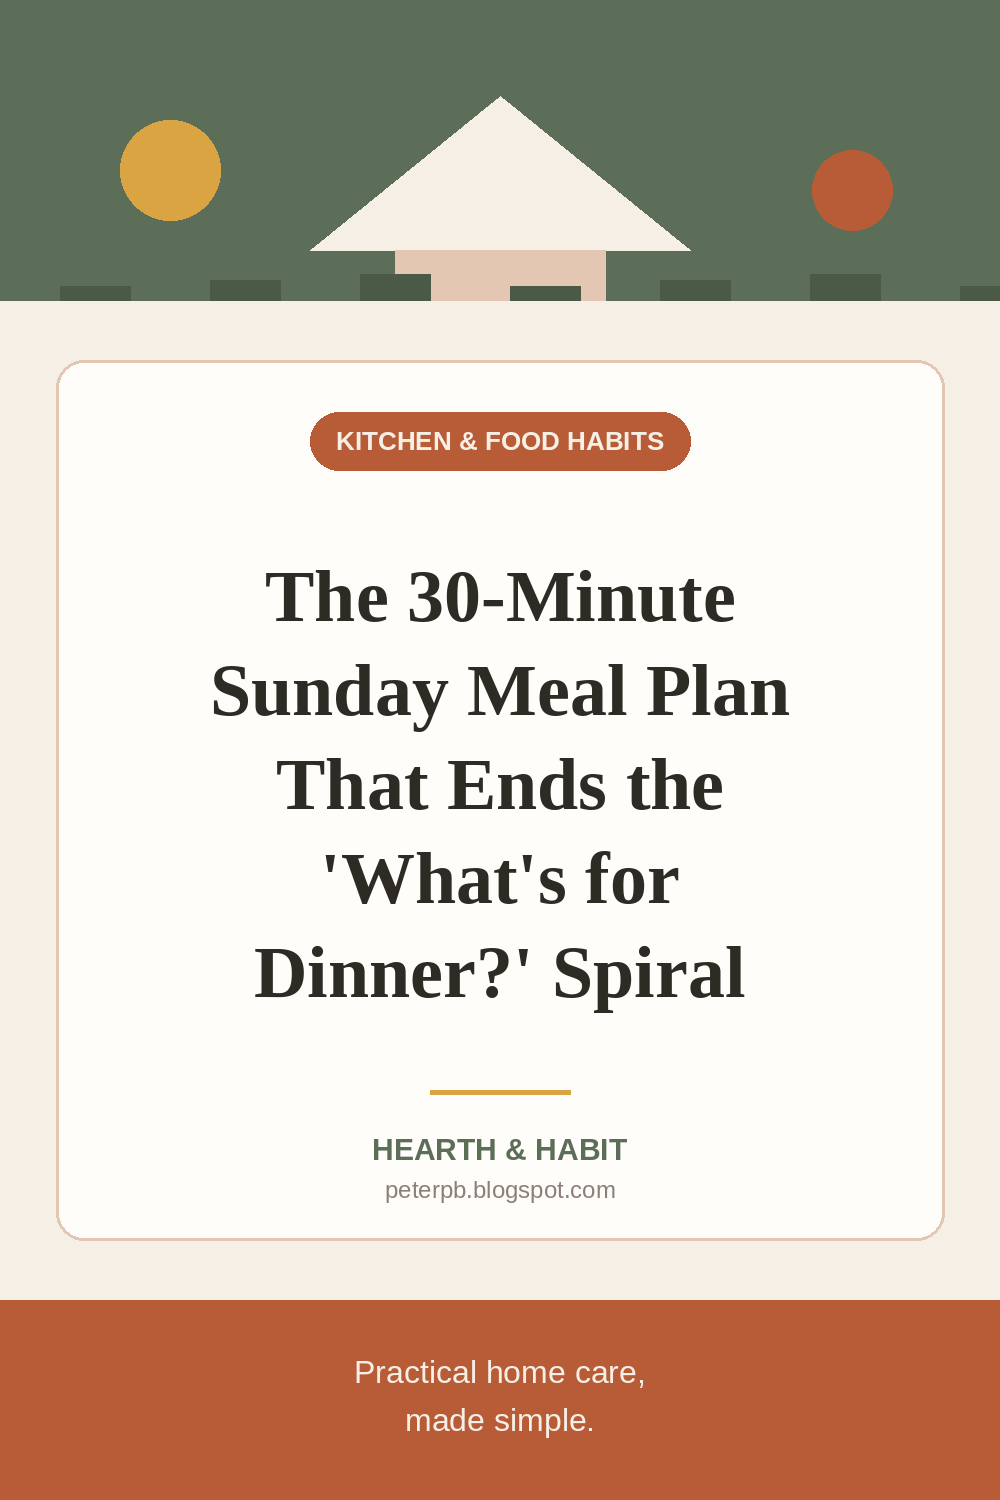
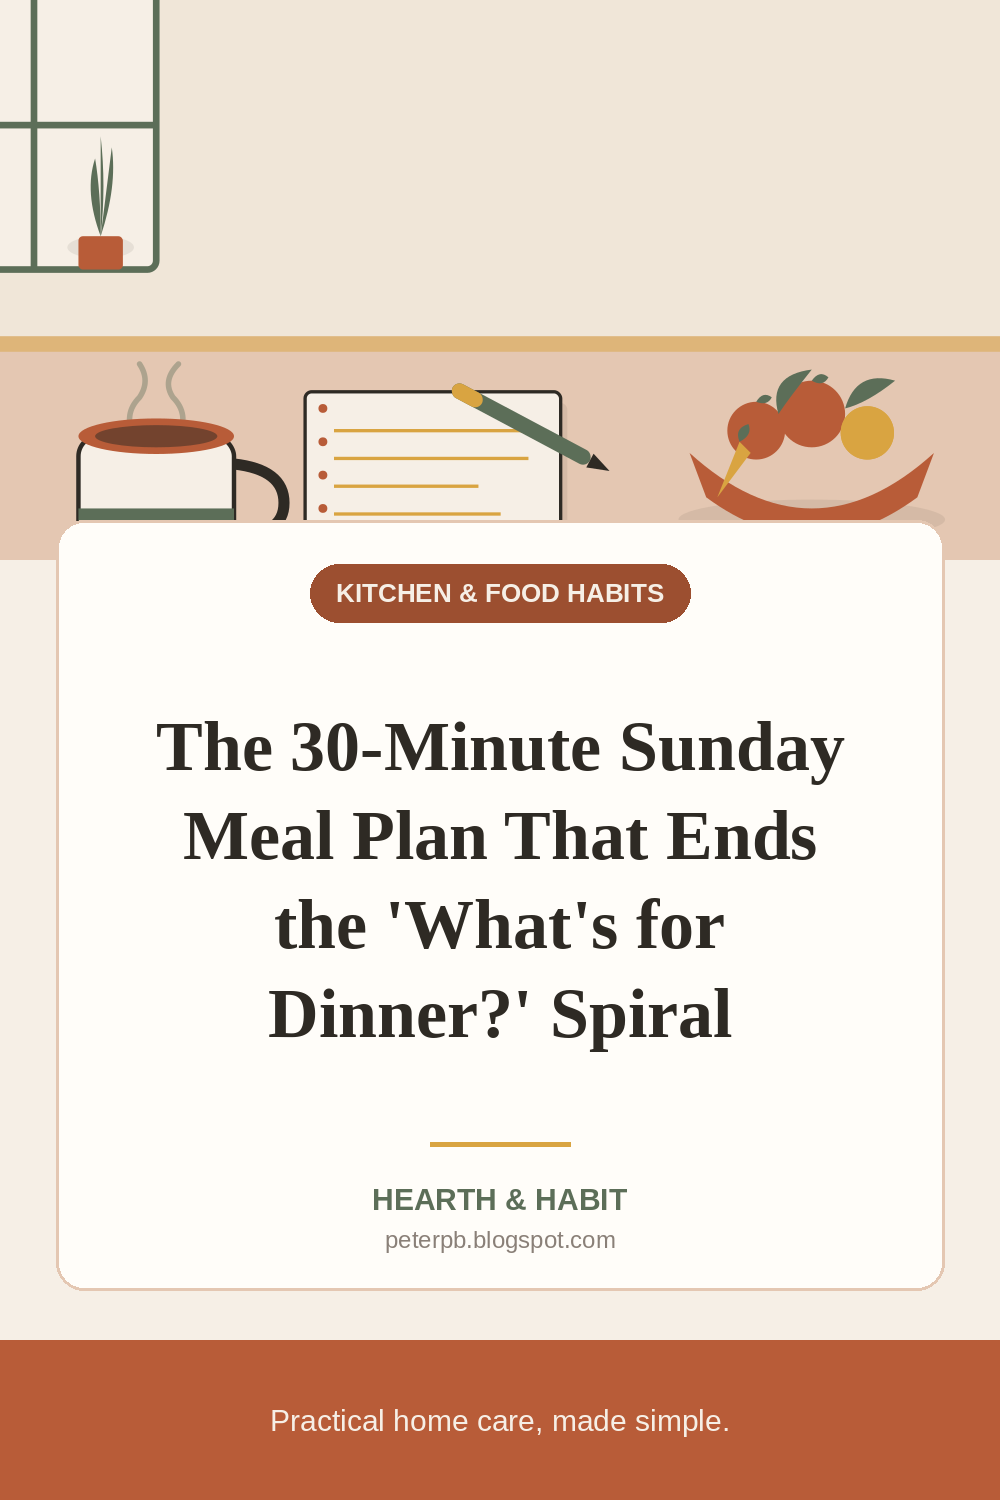
Give every pin its own artwork instead of one shared template
All 17 pins shared an identical geometric background with only the
title changing. Consistent brand elements help, but identical imagery
works against us on Pinterest three ways: the feed favors new unique
images ("fresh pins"), Pinterest's vision models use the artwork to
categorize a pin into related feeds and an abstract house motif says
nothing about mosquitoes or produce storage, and a new account posting
seventeen near-identical images reads as automated.

Each post already has its own Claude-drawn hero illustration, so
rasterize that with CairoSVG into the pin's top band and keep the
title card below. Rendered ~25% taller than the band and cropped with
a downward bias, since these compositions put the subject in the
lower-middle and leave negative space up top — the subject now fills
the thumbnail. Falls back to the old motif if cairo is unavailable or
a hero SVG is missing, so pin generation can't break the pipeline.

Chip color now varies by pillar as a second layer of differentiation.
Verified all 17 render from their own art with no fallbacks.

diff --git a/generator/make_pin.py b/generator/make_pin.py
@@ -21,15 +21,22 @@ Usage:
 from __future__ import annotations
 
 import argparse
+import io
 import textwrap
 from pathlib import Path
 
 import yaml
 from PIL import Image, ImageDraw, ImageFont
 
+try:  # rasterizes the post's hero illustration into the pin
+    import cairosvg
+except Exception:  # missing system cairo — fall back to the drawn motif
+    cairosvg = None
+
 ROOT = Path(__file__).resolve().parents[1]
 POSTS_DIR = ROOT / "content" / "posts"
 PINS_DIR = ROOT / "content" / "pins"
+IMAGES_DIR = ROOT / "content" / "images"
 TOPICS_CONFIG = ROOT / "config" / "topics.yml"
 
 W, H = 1000, 1500
@@ -80,25 +87,74 @@ def fit_title(draw: ImageDraw.ImageDraw, title: str, max_w: int, max_h: int) -> 
     return font, textwrap.wrap(title, width=30)[:7], 44
 
 
+ART_H = 560  # height of the illustration band at the top of the pin
+
+# Chip color per pillar. Identical pins are a Pinterest liability — the feed
+# rewards visually distinct ("fresh") images and its vision models use the
+# artwork to categorize a pin — so the hero illustration below carries the
+# real differentiation and this just reinforces it.
+CHIP_COLORS = {
+    "home-maintenance": TERRACOTTA,
+    "cleaning-organization": SAGE,
+    "energy-savings": "#A8752B",
+    "kitchen-habits": "#9C4F30",
+    "yard-outdoor": "#4A5A47",
+}
+
+
 def draw_motif(d: ImageDraw.ImageDraw) -> None:
-    """Abstract roof/home motif — brand colors, no text, no external assets."""
-    d.rectangle([0, 0, W, 300], fill=SAGE)
-    d.polygon([(500, 96), (690, 250), (310, 250)], fill=CREAM)
-    d.rectangle([395, 250, 605, 300], fill=CLAY)
-    d.ellipse([120, 120, 220, 220], fill=GOLD)
-    d.ellipse([812, 150, 892, 230], fill=TERRACOTTA)
-    for i, x in enumerate(range(60, W, 150)):
-        d.rectangle([x, 286 - (i % 3) * 6, x + 70, 300], fill="#4A5A47")
+    """Fallback art when the post has no hero SVG (or cairo is unavailable):
+    an abstract roof/home motif in brand colors."""
+    d.rectangle([0, 0, W, ART_H], fill=SAGE)
+    d.polygon([(500, 150), (720, 380), (280, 380)], fill=CREAM)
+    d.rectangle([380, 380, 620, 470], fill=CLAY)
+    d.ellipse([110, 170, 230, 290], fill=GOLD)
+    d.ellipse([800, 200, 900, 300], fill=TERRACOTTA)
+    for i, x in enumerate(range(50, W, 150)):
+        d.rectangle([x, 520 - (i % 3) * 10, x + 80, ART_H], fill="#4A5A47")
 
 
-def render_pin(title: str, pillar_name: str, out_path: Path) -> None:
+def hero_band(slug: str) -> Image.Image | None:
+    """The post's own hero SVG, rasterized and cropped to the art band.
+
+    Each post already has a unique Claude-drawn illustration; reusing it here
+    is what makes every pin a distinct image instead of one template with
+    swapped text.
+    """
+    svg = IMAGES_DIR / f"{slug}-hero.svg"
+    if cairosvg is None or not svg.exists():
+        return None
+    try:
+        # Render ~25% taller than the band, then crop back into it. The hero
+        # SVGs carry generous negative space at the top; trimming it lets the
+        # actual subject fill the thumbnail, which is what stops a scroll.
+        png = cairosvg.svg2png(url=str(svg), output_height=int(ART_H * 1.25))
+        art = Image.open(io.BytesIO(png)).convert("RGB")
+    except Exception as e:
+        print(f"  WARN: could not rasterize {svg.name} ({e}); using fallback motif")
+        return None
+    if art.width < W:
+        art = art.resize((W, int(art.height * W / art.width)), Image.LANCZOS)
+    left = max(0, (art.width - W) // 2)
+    # Bias the vertical crop downward: these compositions put the subject in
+    # the lower-middle and sky/wall in the upper third.
+    top = int(max(0, art.height - ART_H) * 0.62)
+    return art.crop((left, top, left + W, top + ART_H))
+
+
+def render_pin(title: str, pillar_name: str, out_path: Path,
+               slug: str = "", pillar_slug: str = "") -> None:
     img = Image.new("RGB", (W, H), CREAM)
     d = ImageDraw.Draw(img)
 
-    draw_motif(d)
+    art = hero_band(slug) if slug else None
+    if art is not None:
+        img.paste(art, (0, 0))
+    else:
+        draw_motif(d)
 
-    # title card
-    card_top, card_bottom = 360, 1240
+    # Title card overlaps the artwork slightly so the two read as one layout.
+    card_top, card_bottom = ART_H - 40, 1290
     d.rounded_rectangle([56, card_top, W - 56, card_bottom], radius=28,
                         fill=CARD, outline=CLAY, width=3)
 
@@ -106,13 +162,13 @@ def render_pin(title: str, pillar_name: str, out_path: Path) -> None:
     chip_font = load_font(SANS_BOLD, 26)
     label = pillar_name.upper()
     tw = d.textlength(label, font=chip_font)
-    d.rounded_rectangle([(W - tw) / 2 - 26, card_top + 52, (W + tw) / 2 + 26, card_top + 110],
-                        radius=29, fill=TERRACOTTA)
-    d.text((W / 2, card_top + 81), label, font=chip_font, fill=CREAM, anchor="mm")
+    d.rounded_rectangle([(W - tw) / 2 - 26, card_top + 44, (W + tw) / 2 + 26, card_top + 102],
+                        radius=29, fill=CHIP_COLORS.get(pillar_slug, TERRACOTTA))
+    d.text((W / 2, card_top + 73), label, font=chip_font, fill=CREAM, anchor="mm")
 
     # Title box stops well clear of the gold rule at card_bottom-150, so even a
     # six-line title can't collide with the wordmark block below it.
-    box_top, box_bottom = card_top + 170, card_bottom - 190
+    box_top, box_bottom = card_top + 150, card_bottom - 190
     box_w, box_h = W - 200, box_bottom - box_top
     font, lines, line_h = fit_title(d, title, box_w, box_h)
     block_h = len(lines) * line_h
@@ -122,18 +178,16 @@ def render_pin(title: str, pillar_name: str, out_path: Path) -> None:
         y += line_h
 
     # rule + wordmark inside the card
-    d.rectangle([W / 2 - 70, card_bottom - 150, W / 2 + 70, card_bottom - 146], fill=GOLD)
+    d.rectangle([W / 2 - 70, card_bottom - 148, W / 2 + 70, card_bottom - 144], fill=GOLD)
     d.text((W / 2, card_bottom - 108), "HEARTH & HABIT",
            font=load_font(SANS_BOLD, 30), fill=SAGE, anchor="ma")
     d.text((W / 2, card_bottom - 64), "peterpb.blogspot.com",
            font=load_font(SANS, 24), fill="#8A8078", anchor="ma")
 
     # footer band
-    d.rectangle([0, H - 200, W, H], fill=TERRACOTTA)
-    d.text((W / 2, H - 128), "Practical home care,",
-           font=load_font(SANS, 32), fill=CREAM, anchor="mm")
-    d.text((W / 2, H - 80), "made simple.",
-           font=load_font(SANS, 32), fill=CREAM, anchor="mm")
+    d.rectangle([0, H - 160, W, H], fill=TERRACOTTA)
+    d.text((W / 2, H - 80), "Practical home care, made simple.",
+           font=load_font(SANS, 30), fill=CREAM, anchor="mm")
 
     out_path.parent.mkdir(parents=True, exist_ok=True)
     img.save(out_path, optimize=True)
@@ -158,7 +212,8 @@ def pin_for_post(path: Path, names: dict) -> Path | None:
         return None
     slug = fm.get("slug") or path.stem[11:]
     out = PINS_DIR / f"{slug}.png"
-    render_pin(fm["title"], names.get(fm.get("pillar"), "Home & Living"), out)
+    render_pin(fm["title"], names.get(fm.get("pillar"), "Home & Living"), out,
+               slug=slug, pillar_slug=fm.get("pillar", ""))
     return out
 
 
